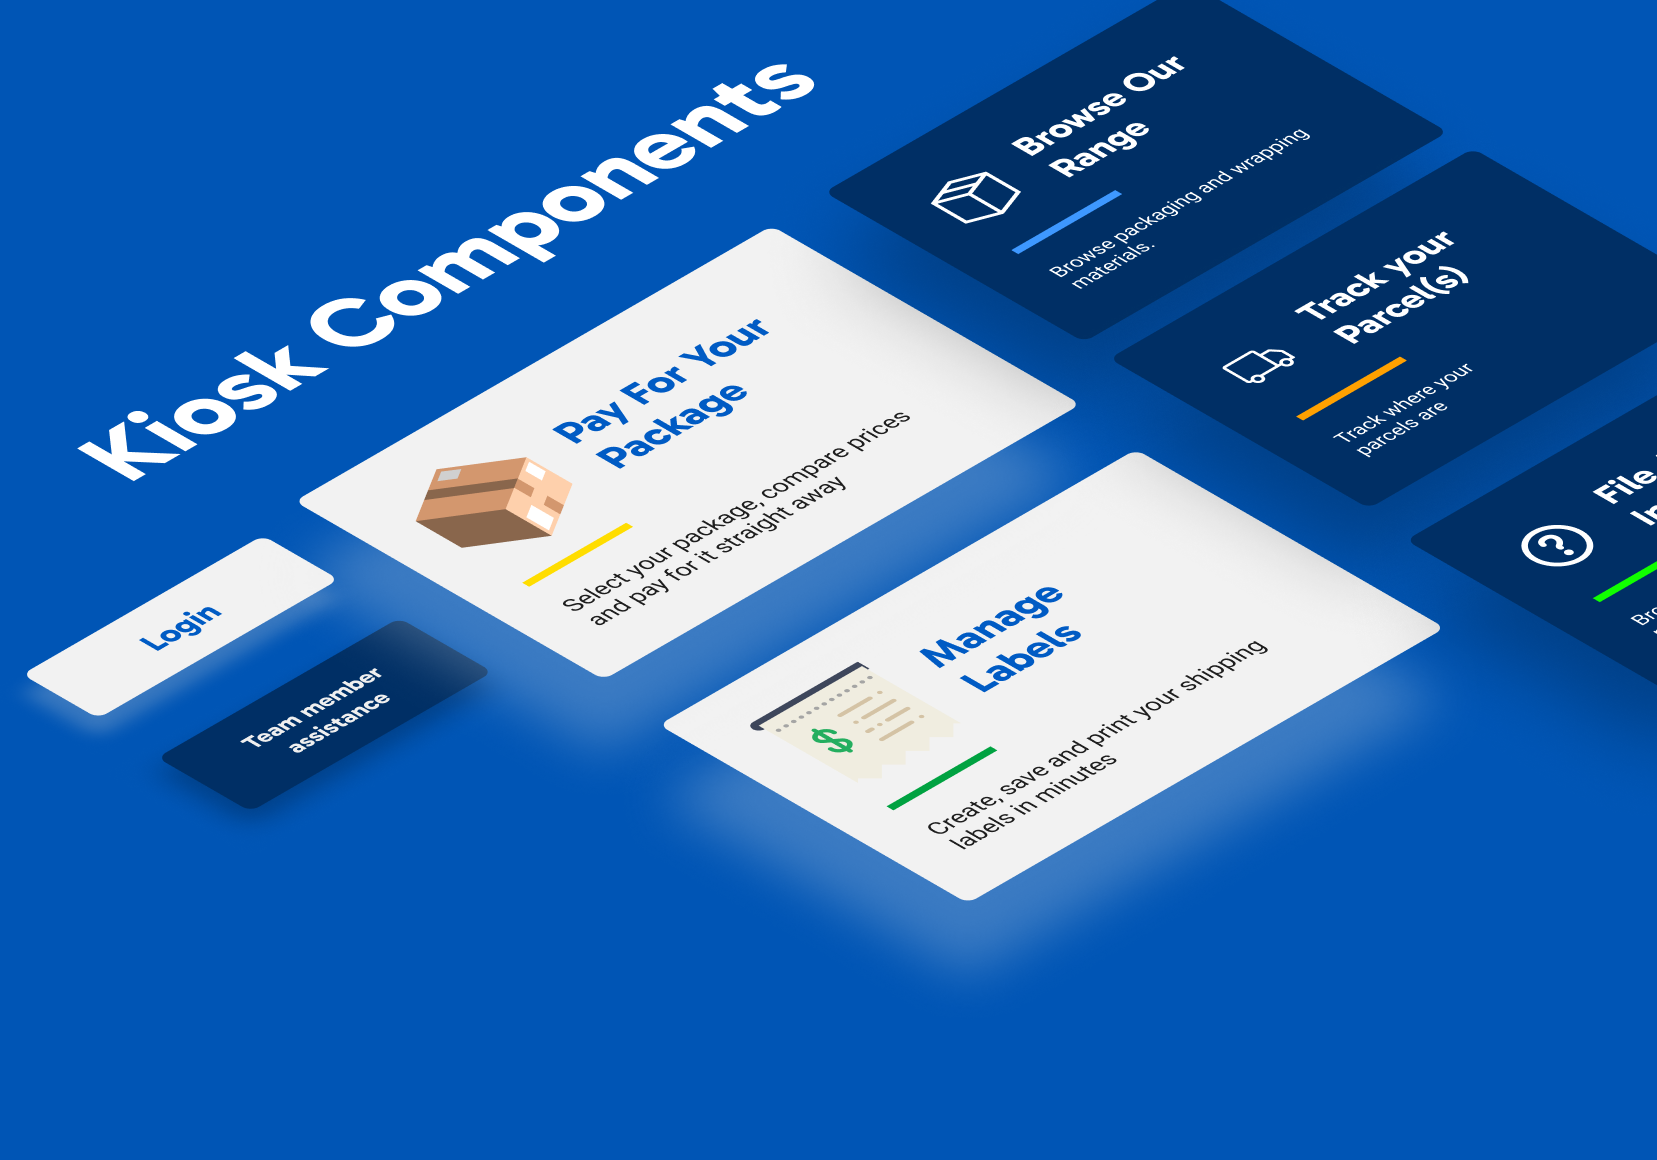
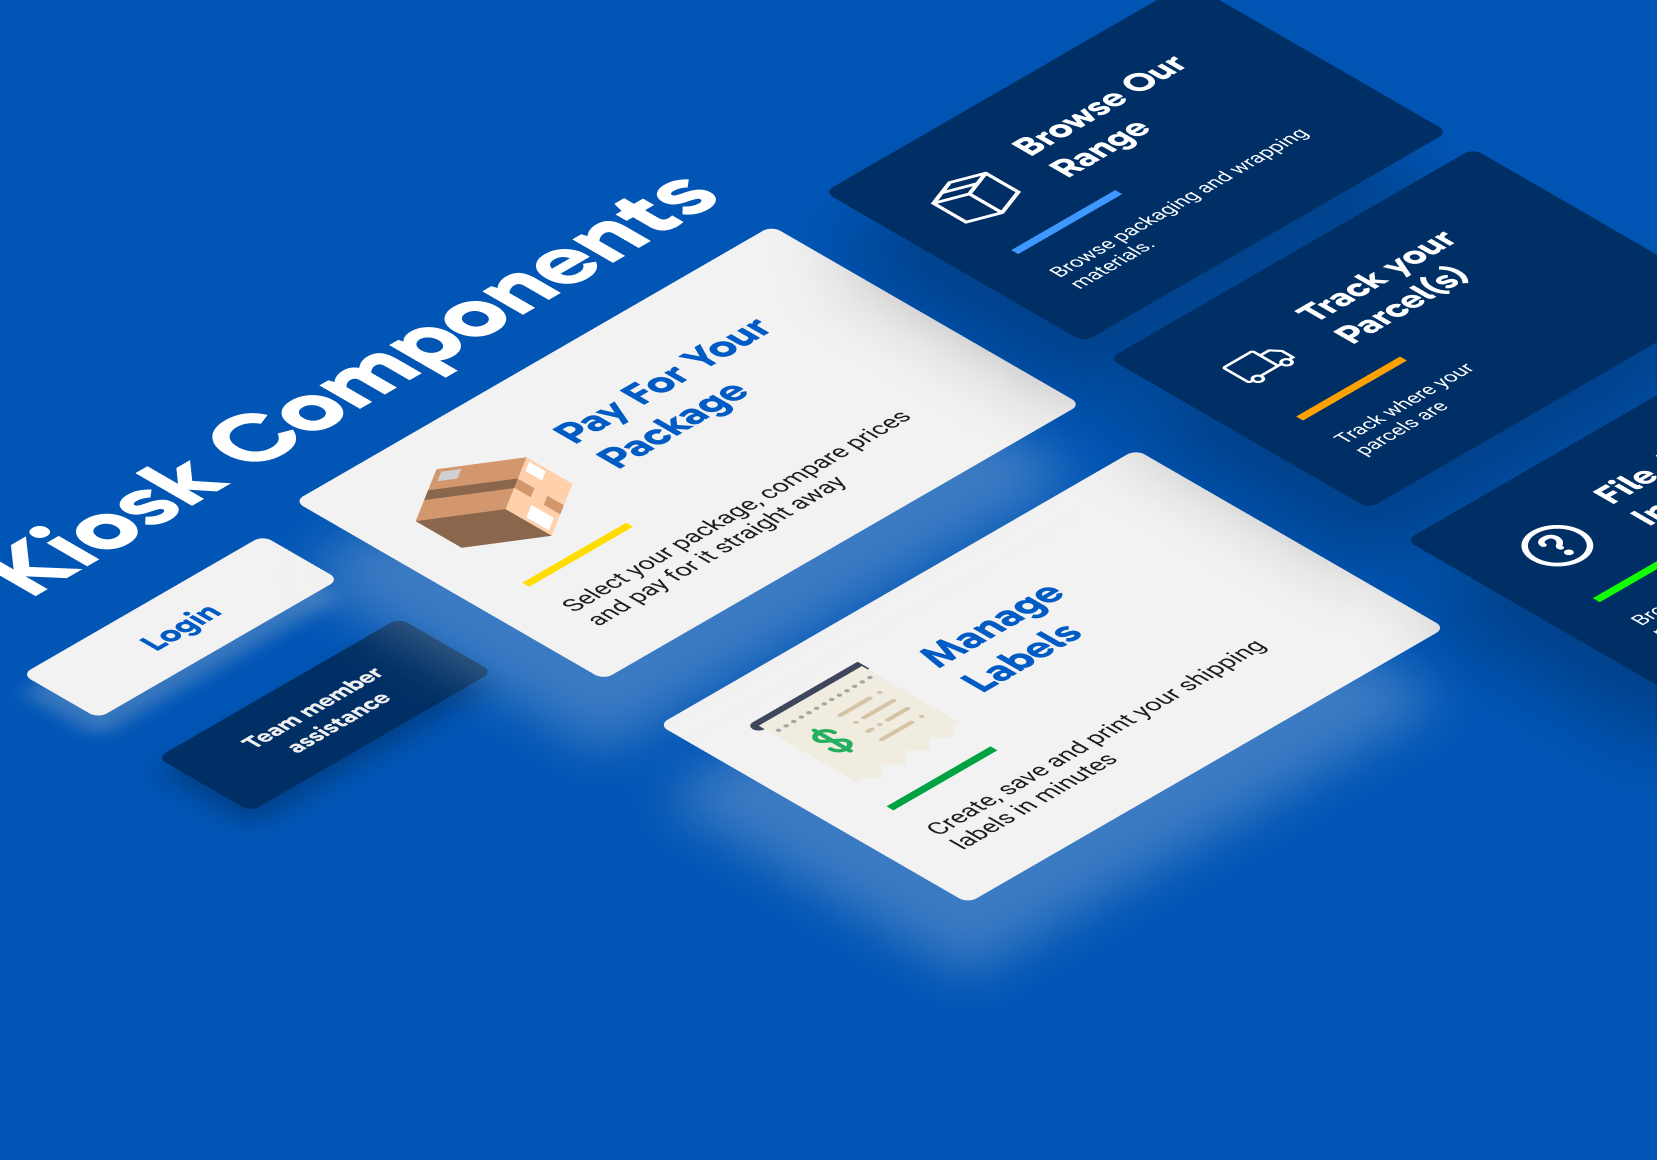
EA files push

Changed region(s): [[0.0, 0.0621, 0.4925, 0.5276]]

diff --git a/data/projects.js b/data/projects.js
@@ -19,7 +19,7 @@ export const projects = [
     year: '2021 - 2025',
     tags: ['UX Design', 'Design Systems', 'Research'],
     // A 16:9 or 3:2 hero image. Replace with your actual project image.
-    thumbnail: '/Work/EA.png',
+    thumbnail: '/Work/EA/EA-cover.png',
     // accent used for the card hover line + case-study page accent
     accent: '#251bf3',
     // 'wide' cards span 2 columns on desktop; 'tall' span 2 rows
@@ -69,12 +69,18 @@ export const projects = [
     // Add as many images as you like. caption is optional.
     images: [
       {
-        src: 'https://images.unsplash.com/photo-1593642632559-0c6d3fc62b89?w=1600&auto=format&fit=crop',
-        caption: 'Cinematics editor — before / after workflow consolidation',
+        src: '/Work/EA/Workshop.jpg',
+        caption:
+          'Workshop — aligning global stakeholders on research insights and priorities',
       },
       {
-        src: 'https://images.unsplash.com/photo-1556742049-0cfed4f6a45d?w=1600&auto=format&fit=crop',
-        caption: 'Component library — core token architecture',
+        src: '/Work/EA/Editor.png',
+        caption: 'Editor UI - modal redesign with new component library',
+      },
+      {
+        src: '/Work/EA/Timelines.png',
+        caption:
+          'Cinematics timeline - Mono and split view modes for different user needs',
       },
     ],
   },

diff --git a/components/Work.js b/components/Work.js
@@ -78,9 +78,9 @@ export default function Work() {
             >
               <path
                 d="M15 6L9 12L15 18"
-                stroke-width="2"
-                stroke-linecap="round"
-                stroke-linejoin="round"
+                strokeWidth="2"
+                strokeLinecap="round"
+                strokeLinejoin="round"
               />
             </svg>
           </button>
@@ -103,9 +103,9 @@ export default function Work() {
               /> */}
               <path
                 d="M9 6L15 12L9 18"
-                stroke-width="2"
-                stroke-linecap="round"
-                stroke-linejoin="round"
+                strokeWidth="2"
+                strokeLinecap="round"
+                strokeLinejoin="round"
               />
             </svg>
           </button>

diff --git a/components/ThemeToggle.js b/components/ThemeToggle.js
@@ -45,7 +45,7 @@ export default function ThemeToggle({
           background: isWhiteMode
             ? 'rgba(255,255,255,0.2)'
             : isDark
-              ? '#09102a'
+              ? 'var(--color-bg)'
               : '#f3efef',
           border: `1.5px solid ${isWhiteMode ? 'rgba(255,255,255,0.5)' : 'var(--text-secondary)'}`,
           transform: isDark ? 'translateX(0%)' : 'translateX(100%)',
